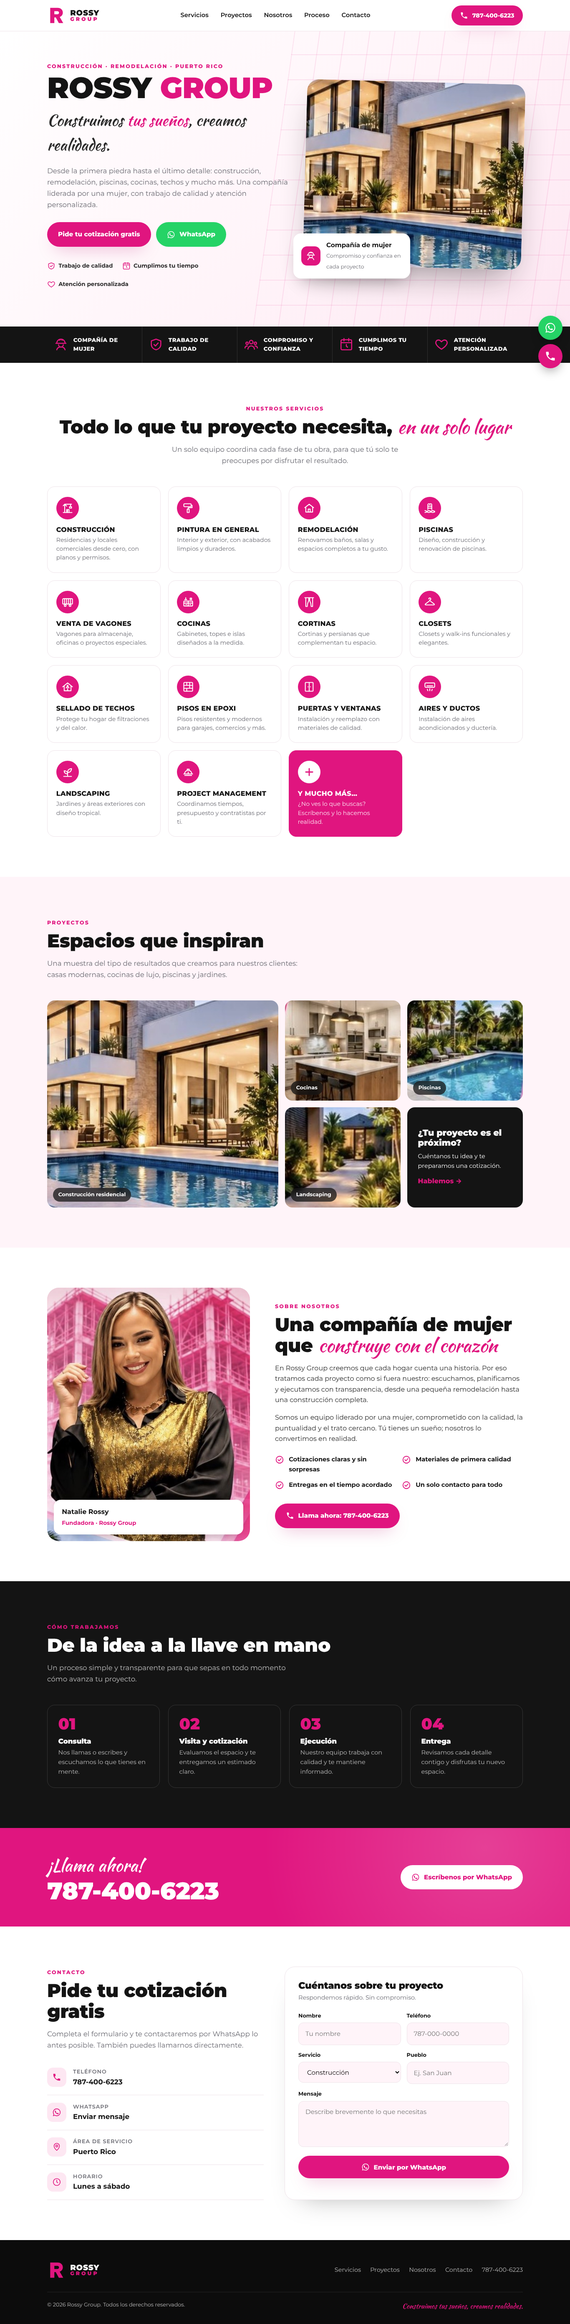
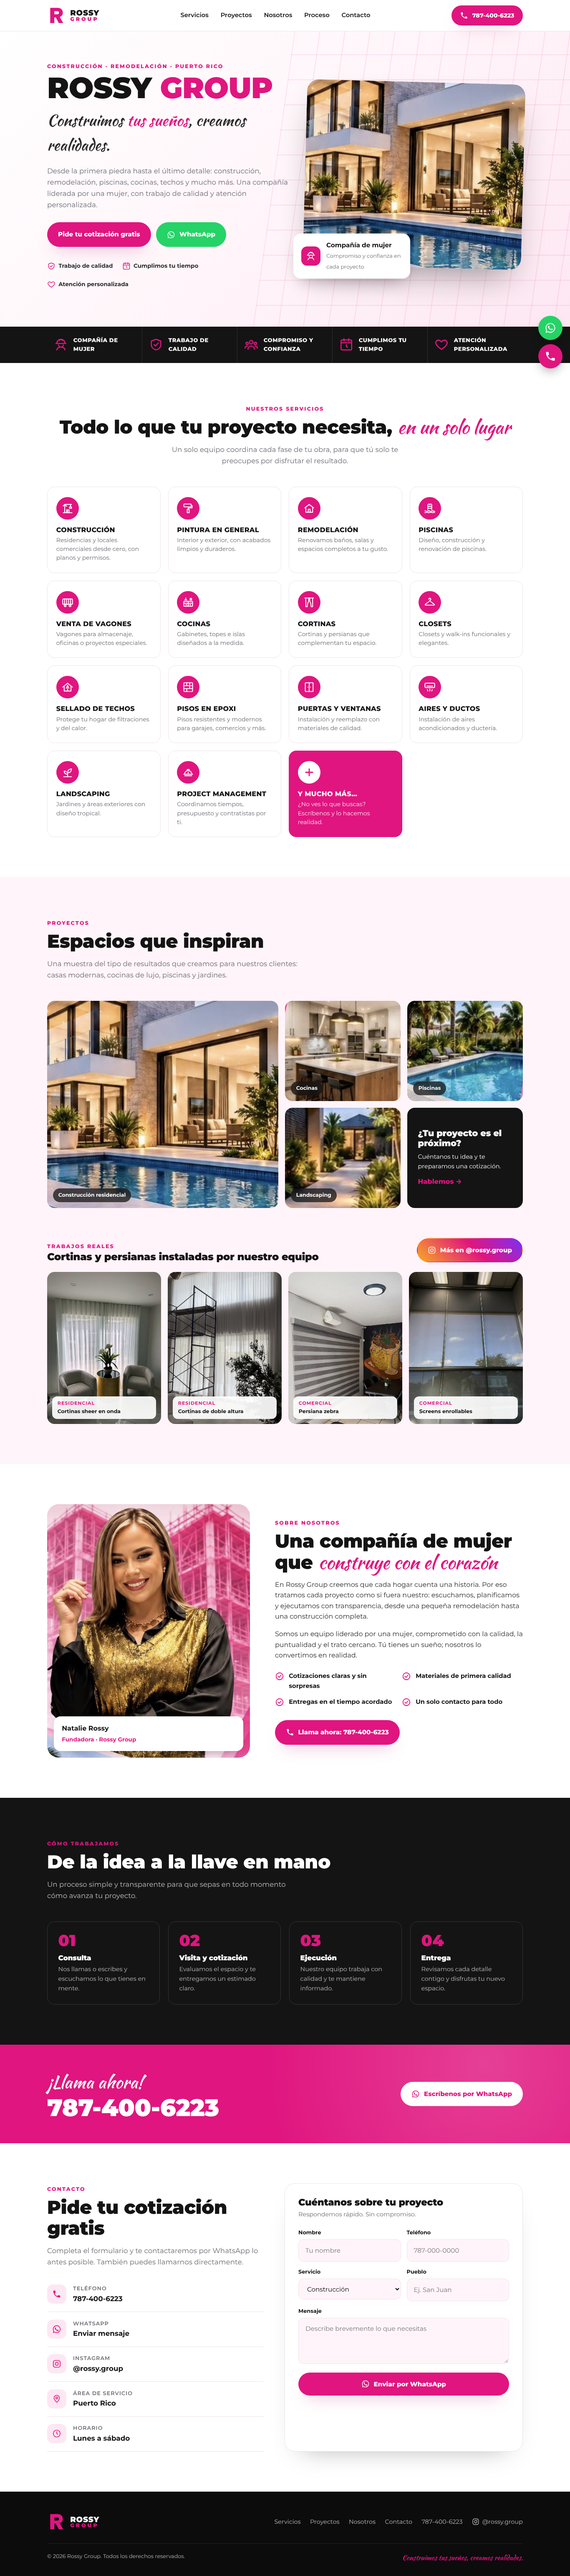
Añade trabajos reales de cortinas e Instagram @rossy.group
Claude-Session: https://claude.ai/code/session_01Uma2gDe5pAuzwSSzdaK17x

diff --git a/index.html b/index.html
@@ -147,6 +147,19 @@ section.block{padding:96px 0}
 .values svg{width:22px;height:22px;color:var(--pink);flex:none;margin-top:1px}
 @media(max-width:900px){.about{grid-template-columns:1fr;gap:36px}.about-photo{max-width:440px}}
 
+/* Real work */
+.real-head{display:flex;justify-content:space-between;align-items:flex-end;gap:20px;flex-wrap:wrap;margin-top:4.5rem}
+.real-head h3{font-size:1.5rem}
+.real{display:grid;grid-template-columns:repeat(4,1fr);gap:16px;margin-top:1.4rem}
+.real figure{position:relative;border-radius:var(--radius);overflow:hidden;aspect-ratio:3/4;background:#ddd}
+.real img{width:100%;height:100%;object-fit:cover;transition:transform .6s}
+.real figure:hover img{transform:scale(1.05)}
+.real figcaption{position:absolute;left:12px;bottom:12px;right:12px;background:rgba(255,255,255,.92);color:var(--ink);font-size:.78rem;font-weight:700;padding:.5rem .8rem;border-radius:12px}
+.real figcaption span{display:block;color:var(--pink);font-size:.7rem;text-transform:uppercase;letter-spacing:.08em}
+.btn-ig{background:linear-gradient(45deg,#f9a825,#e0157f 55%,#7b2ff7);color:#fff}
+.btn-ig:hover{transform:translateY(-2px);filter:brightness(1.05)}
+@media(max-width:900px){.real{grid-template-columns:1fr 1fr}}
+
 /* Process */
 .process-sec{background:var(--ink);color:#fff}
 .process-sec .lead{color:rgba(255,255,255,.7)}
@@ -237,6 +250,7 @@ footer .logo-text{color:#fff}
     <symbol id="i-clock" viewBox="0 0 24 24"><g fill="none" stroke="currentColor" stroke-width="1.8" stroke-linecap="round" stroke-linejoin="round"><rect x="3" y="4" width="18" height="17" rx="2"/><path d="M3 9h18M8 2v4M16 2v4M12 12v3l2 1.5"/></g></symbol>
     <symbol id="i-heart" viewBox="0 0 24 24"><g fill="none" stroke="currentColor" stroke-width="1.8" stroke-linecap="round" stroke-linejoin="round"><path d="M12 20s-7.5-4.6-9.3-9.2C1.5 7.6 3.6 4.5 7 4.5c2 0 3.4 1.1 5 3 1.6-1.9 3-3 5-3 3.4 0 5.5 3.1 4.3 6.3C19.5 15.4 12 20 12 20z"/></g></symbol>
     <symbol id="i-check" viewBox="0 0 24 24"><g fill="none" stroke="currentColor" stroke-width="2" stroke-linecap="round" stroke-linejoin="round"><circle cx="12" cy="12" r="9"/><path d="m8 12 3 3 5-6"/></g></symbol>
+    <symbol id="i-ig" viewBox="0 0 24 24"><g fill="none" stroke="currentColor" stroke-width="1.9"><rect x="3" y="3" width="18" height="18" rx="5"/><circle cx="12" cy="12" r="4"/><circle cx="17.3" cy="6.7" r=".9" fill="currentColor" stroke="none"/></g></symbol>
     <symbol id="i-pin" viewBox="0 0 24 24"><g fill="none" stroke="currentColor" stroke-width="1.8" stroke-linecap="round" stroke-linejoin="round"><path d="M12 21s-7-6.1-7-11.5a7 7 0 0 1 14 0C19 14.9 12 21 12 21z"/><circle cx="12" cy="9.5" r="2.5"/></g></symbol>
     <symbol id="i-time" viewBox="0 0 24 24"><g fill="none" stroke="currentColor" stroke-width="1.8" stroke-linecap="round" stroke-linejoin="round"><circle cx="12" cy="12" r="9"/><path d="M12 7v5l3 2"/></g></symbol>
     <symbol id="i-logo" viewBox="0 0 48 48"><path fill="#e0157f" d="M8 4h19c8.3 0 14 5 14 12.5 0 5.6-3.2 9.6-8.2 11.3L42 44H30.5l-8-14.8H18.8V44H8zm10.8 8.7v8.3h7.6c2.9 0 4.6-1.6 4.6-4.15 0-2.6-1.7-4.15-4.6-4.15z"/></symbol>
@@ -348,6 +362,17 @@ footer .logo-text{color:#fff}
         <a href="#contacto">Hablemos →</a>
       </div>
     </div>
+
+    <div class="real-head reveal">
+      <div><span class="eyebrow">Trabajos reales</span><h3>Cortinas y persianas instaladas por nuestro equipo</h3></div>
+      <a href="https://www.instagram.com/rossy.group/" target="_blank" rel="noopener" class="btn btn-ig"><svg><use href="#i-ig"/></svg>Más en @rossy.group</a>
+    </div>
+    <div class="real reveal">
+      <figure><img src="img/cortinas-sala.jpg" alt="Cortinas sheer en sala con piso de mármol" loading="lazy"><figcaption><span>Residencial</span>Cortinas sheer en onda</figcaption></figure>
+      <figure><img src="img/cortinas-sheer-altas.jpg" alt="Cortinas de doble altura en residencia" loading="lazy"><figcaption><span>Residencial</span>Cortinas de doble altura</figcaption></figure>
+      <figure><img src="img/cortinas-zebra.jpg" alt="Persiana zebra en restaurante" loading="lazy"><figcaption><span>Comercial</span>Persiana zebra</figcaption></figure>
+      <figure><img src="img/screens-oficina.jpg" alt="Cortinas screen enrollables en ventanales de oficina" loading="lazy"><figcaption><span>Comercial</span>Screens enrollables</figcaption></figure>
+    </div>
   </div>
 </section>
 
@@ -412,6 +437,7 @@ footer .logo-text{color:#fff}
       <ul class="contact-info">
         <li><div class="ic"><svg><use href="#i-phone"/></svg></div><div><small>Teléfono</small><b><a href="tel:+17874006223">787-400-6223</a></b></div></li>
         <li><div class="ic"><svg><use href="#i-wa"/></svg></div><div><small>WhatsApp</small><b><a href="https://wa.me/17874006223" target="_blank" rel="noopener">Enviar mensaje</a></b></div></li>
+        <li><div class="ic"><svg><use href="#i-ig"/></svg></div><div><small>Instagram</small><b><a href="https://www.instagram.com/rossy.group/" target="_blank" rel="noopener">@rossy.group</a></b></div></li>
         <li><div class="ic"><svg><use href="#i-pin"/></svg></div><div><small>Área de servicio</small><b>Puerto Rico</b></div></li>
         <li><div class="ic"><svg><use href="#i-time"/></svg></div><div><small>Horario</small><b>Lunes a sábado</b></div></li>
       </ul>
@@ -445,6 +471,7 @@ footer .logo-text{color:#fff}
       <div class="foot-links">
         <a href="#servicios">Servicios</a><a href="#proyectos">Proyectos</a><a href="#nosotros">Nosotros</a><a href="#contacto">Contacto</a>
         <a href="tel:+17874006223">787-400-6223</a>
+        <a href="https://www.instagram.com/rossy.group/" target="_blank" rel="noopener" aria-label="Instagram @rossy.group" style="display:inline-flex;gap:.4rem;align-items:center"><svg style="width:18px;height:18px"><use href="#i-ig"/></svg>@rossy.group</a>
       </div>
     </div>
     <div class="copy"><span>© <span id="yr">2026</span> Rossy Group. Todos los derechos reservados.</span><span class="script" style="color:var(--pink);font-size:1.05rem">Construimos tus sueños, creamos realidades.</span></div>
